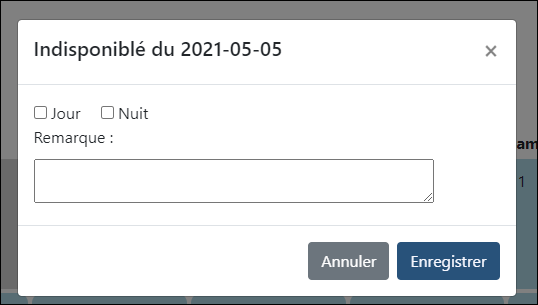
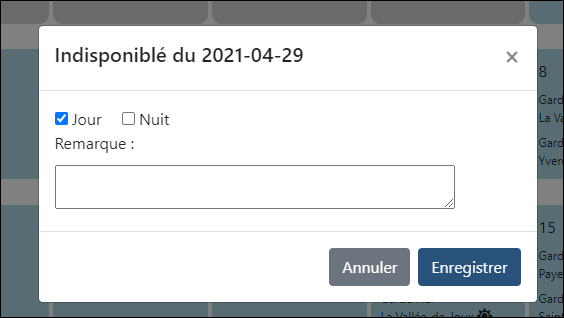
doc

Changed region(s): [[0.0, 0.0, 1.0, 1.0], [0.2082, 0.3541, 0.2974, 0.4131], [0.8922, 0.1475, 0.9219, 0.2066]]

diff --git a/Doc/Gogniat/Bilan_TPI.md b/Doc/Gogniat/Bilan_TPI.md
@@ -154,17 +154,28 @@ Au survol de chaque jour du calendrier, des boutons soleil/lune (pour les créne
 
 ![addIndispo](images/addIndispo.PNG)
 
-Avec ensuite un formulaire permettant d'indiquer le créneau et une éventuelle remarque
+Avec ensuite un formulaire permettant d'indiquer le créneau et une éventuelle remarque, le créneaux est sélectionné automatiquement en fonction de l'icône sur laquelle on a cliqué précédemment
 
 ![formIndispo](images/formIndispo.PNG)
+
 
 L'icone devient rouge et aux survol il est possible de savoir pour quel raison la nova est indisponible et qui l'a indiqué
 
 ![indispo](images/indispo.PNG)
 
-En cliquant à nouveau sur cette icône, il doit être possible de la modifier ou de l'annnuler.
+En cliquant à nouveau sur cette icône, il doit être possible de la modifier ou de l'annnuler des données enregistée
 
+## Importation du plan de travail
 
+Un bouton impoter
+
+## Visualisation du plan de travail
+
+![indispo](images/userCalendarBtn.PNG)
+
+![indispo](images/emptyCalendar.PNG)
+
+![indispo](images/userCalendarInfo.PNG)
 
 ## Droits de modification (garde)
 
